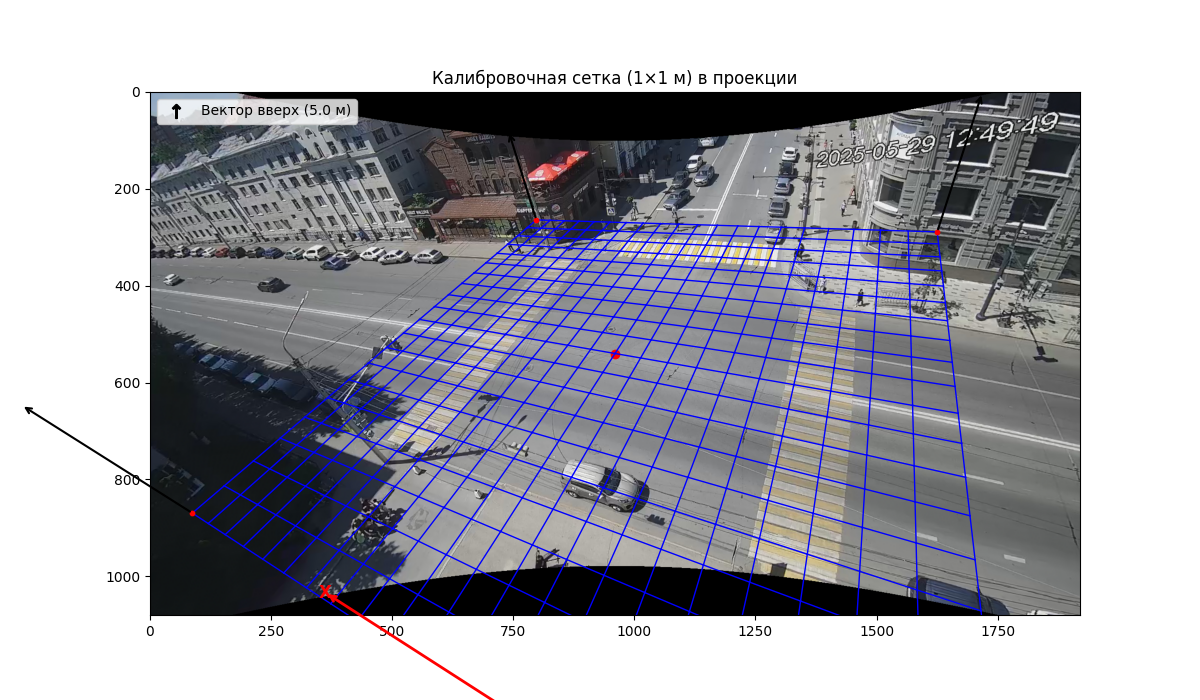
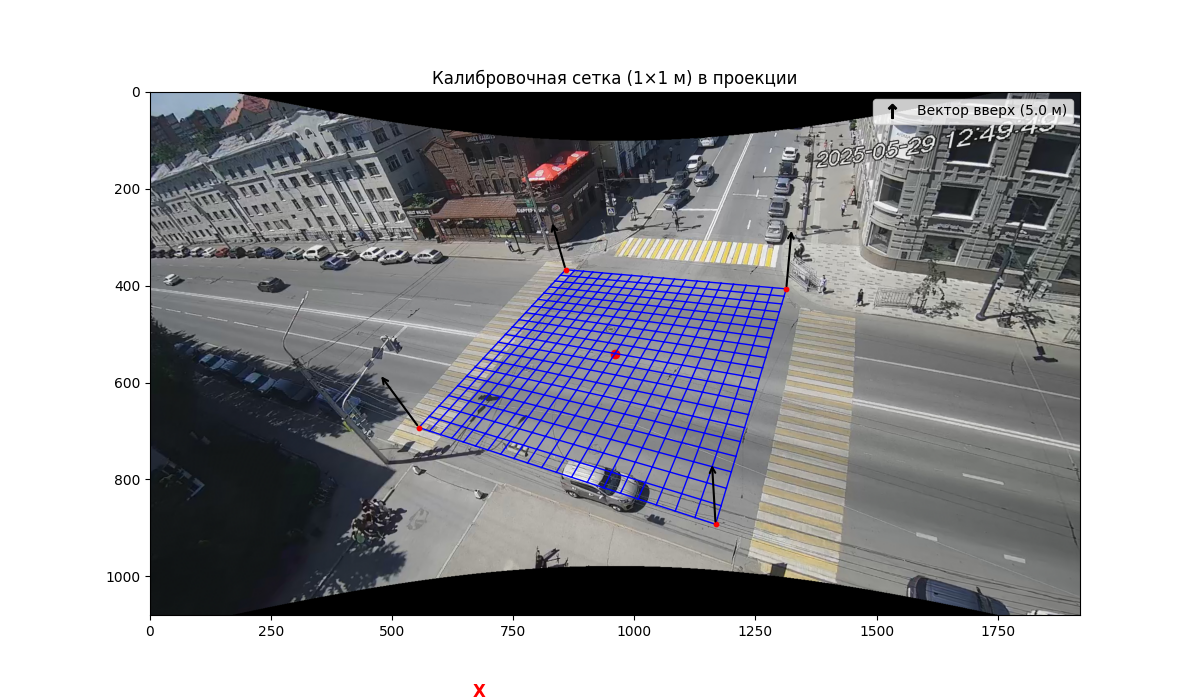
Погрешность для обратной проекции 1м

diff --git a/example/karls_marks/example.py b/example/karls_marks/example.py
@@ -25,19 +25,20 @@ vp_init = VanishingPointCalibration(camera, debug_save_path='image/vp.png')
 vp_init.set_vanishing_points(vpX=vps_manual[0], vpZ=vps_manual[1])
 
 from utils import AnnotationParser
+
 annotation_parser = AnnotationParser("marked/data_full.json")
 
 data = {
-    "pedestrian crossing": annotation_parser.get_points_by_class("pedestrian crossing"),
-    "pedestrian crossing 2": annotation_parser.get_points_by_class("pedestrian crossing 2"),
-    "pedestrian crossing 3": annotation_parser.get_points_by_class("pedestrian crossing 3"),
-    "distance between line": annotation_parser.get_points_by_class("distance between line"),
+    "pedestrian crossing": annotation_parser.get_lines_by_class("pedestrian crossing"),
+    "pedestrian crossing 2": annotation_parser.get_lines_by_class("pedestrian crossing 2"),
+    "pedestrian crossing 3": annotation_parser.get_lines_by_class("pedestrian crossing 3"),
+    "distance between line": annotation_parser.get_lines_by_class("distance between line"),
 }
 
 resualds_blocks_first = [
     lambda cam, data: residual_interline_distance(cam, data, group="pedestrian crossing", expected=4),
     lambda cam, data: residual_interline_distance(cam, data, group="pedestrian crossing 2", expected=4),
-    lambda cam, data: residual_interline_distance(cam, data, group="pedestrian crossing 2", expected=4),
+    lambda cam, data: residual_interline_distance(cam, data, group="pedestrian crossing 3", expected=4),
     lambda cam, data: residual_interline_distance(cam, data, group="distance between line", expected=3.5),
 ]
 
@@ -45,7 +46,7 @@ refiner_first = RefineOptimizer(camera=camera,
                                 residual_blocks=resualds_blocks_first,
                                 mask=[0, 6],
                                 bounds=([800, 5], [2000, 30]),
-                                debug_save_path='image/',
+                                # debug_save_path='image/',
                                 )
 
 pipeline = CalibrationPipeline([vp_init, refiner_first])
@@ -148,43 +149,62 @@ camera = pipeline.run(camera, data)
 # from calibration.debug import visualize_vps_debug
 # visualize_vps_debug(camera, show=True)
 
-v_scene_all = camera.project_back(PointND([1228, 982], add_weight=True)).get()[:2]
+v_scene_all = camera.project_back(PointND([492, 769], add_weight=True)).get()[:2]
+print(v_scene_all)
 v_scene = v_scene_all / np.linalg.norm(v_scene_all)
 
 from calibration.utils import gps_to_enu, enu_to_gps
 
-lat0, lon0 = 54.725380, 55.941035
-lat1, lon1 = 54.725398, 55.940914
-v_enu = gps_to_enu(lat1, lon1, lat0, lon0)
-v_enu = v_enu / np.linalg.norm(v_enu)
+lat0, lon0 = 54.725377, 55.941040
+lat1, lon1 = 54.725211, 55.940847
+v_enu_all = gps_to_enu(lat1, lon1, lat0, lon0)
+v_enu = v_enu_all / np.linalg.norm(v_enu_all)
 
 cos_theta = np.dot(v_scene, v_enu)
 sin_theta = v_scene[0] * v_enu[1] - v_scene[1] * v_enu[0]
 
 theta = np.arctan2(sin_theta, cos_theta)
-
 R = np.array([
     [np.cos(theta), -np.sin(theta)],
     [np.sin(theta), np.cos(theta)]
 ])
 print(enu_to_gps(*R @ v_scene_all, lat0, lon0))
 
-# point_enu = []
-# for point in point_test_gps:
-#     _point_world = camera.project_back(PointND(point, add_weight=True)).get()[:2]
-#     _point_enu = enu_to_gps(*R @ _point_world, lat0, lon0)
-#     point_enu.append(_point_enu)
-#
-# point_enu.append((lat0, lon0))
-#
-#
-# def generate_yandex_maps_url(points):
-#     base_url = "https://yandex.ru/maps/?pt="
-#     coords = ["{:.6f},{:.6f}".format(lon, lat) for lat, lon in points]
-#     return base_url + "~".join(coords)
-#
-#
-# # Пример использования:
-# url = generate_yandex_maps_url(point_enu)
-# print("Ссылка для просмотра в Яндекс.Картах:")
-# print(url)
+point_test_gps = annotation_parser.get_points_by_class("gps_test")
+point_gps = []
+for point in point_test_gps:
+    _point_world = camera.project_back(PointND(point, add_weight=True)).get()[:2]
+    _point_enu = enu_to_gps(*R @ _point_world, lat0, lon0)
+    point_gps.append(_point_enu)
+
+
+def generate_yandex_maps_url(points):
+    base_url = "https://yandex.ru/maps/?pt="
+    coords = ["{:.6f},{:.6f}".format(lon, lat) for lat, lon in points]
+    return base_url + "~".join(coords)
+
+url = generate_yandex_maps_url(point_gps)
+print("Ссылка для просмотра в Яндекс.Картах:")
+print(url)
+
+point_gps_ideal = [(54.725194, 55.940845),
+                   (54.725242, 55.940414),
+                   (54.725295, 55.940380),
+                   (54.725469, 55.940450)]
+
+
+
+error = []
+for _point_gps, _point_gps_ideal in zip(point_gps, point_gps_ideal):
+    # print(_point_gps, _point_gps_ideal)
+    _point_enu = np.array(gps_to_enu(*_point_gps, lat0, lon0))
+    _point_enu_ideal = np.array(gps_to_enu(*_point_gps_ideal, lat0, lon0))
+    dist = np.linalg.norm(_point_enu_ideal - _point_enu)
+    error.append(dist)
+
+print(f"📊 Статистика ошибок (в метрах):")
+print(f"  ▸ Средняя ошибка:      {np.mean(error):.2f} м")
+print(f"  ▸ Стандартное отклонение: {np.std(error):.2f} м")
+print(f"  ▸ Минимальная ошибка:  {np.min(error):.2f} м")
+print(f"  ▸ Максимальная ошибка: {np.max(error):.2f} м")
+print(f"  ▸ Медианная ошибка:    {np.median(error):.2f} м")

diff --git a/source/utils/annotation_parser.py b/source/utils/annotation_parser.py
@@ -4,35 +4,35 @@ from collections import defaultdict
 class AnnotationParser:
     def __init__(self, filepath):
         self.filepath = filepath
-        self.annotations = {"lines": {}, "points": {}}
+        self.annotations = {"line": {}, "point": {}}
         self._load()
 
     def _load(self):
         with open(self.filepath, "r", encoding="utf-8") as f:
             self.annotations = json.load(f)
             # Убедимся, что оба типа присутствуют
-            self.annotations.setdefault("lines", {})
-            self.annotations.setdefault("points", {})
+            self.annotations.setdefault("line", {})
+            self.annotations.setdefault("point", {})
 
     def get_all_classes(self):
         classes = set(self.annotations["lines"].keys()) | set(self.annotations["points"].keys())
         return sorted(classes)
 
     def get_points_by_class(self, class_name):
-        return self.annotations["points"].get(class_name, [])
+        return self.annotations["point"].get(class_name, [])
 
     def get_lines_by_class(self, class_name):
-        return self.annotations["lines"].get(class_name, [])
+        return self.annotations["line"].get(class_name, [])
 
     def get_all_points(self):
         all_points = []
-        for cls, pts in self.annotations["points"].items():
+        for cls, pts in self.annotations["point"].items():
             all_points.extend(pts)
         return all_points
 
     def get_all_lines(self):
         all_lines = []
-        for cls, lines in self.annotations["lines"].items():
+        for cls, lines in self.annotations["line"].items():
             all_lines.extend(lines)
         return all_lines
 
@@ -40,8 +40,8 @@ class AnnotationParser:
         stats = {}
         for cls in self.get_all_classes():
             stats[cls] = {
-                "points": len(self.get_points_by_class(cls)),
-                "lines": len(self.get_lines_by_class(cls))
+                "point": len(self.get_points_by_class(cls)),
+                "line": len(self.get_lines_by_class(cls))
             }
         return stats
 
